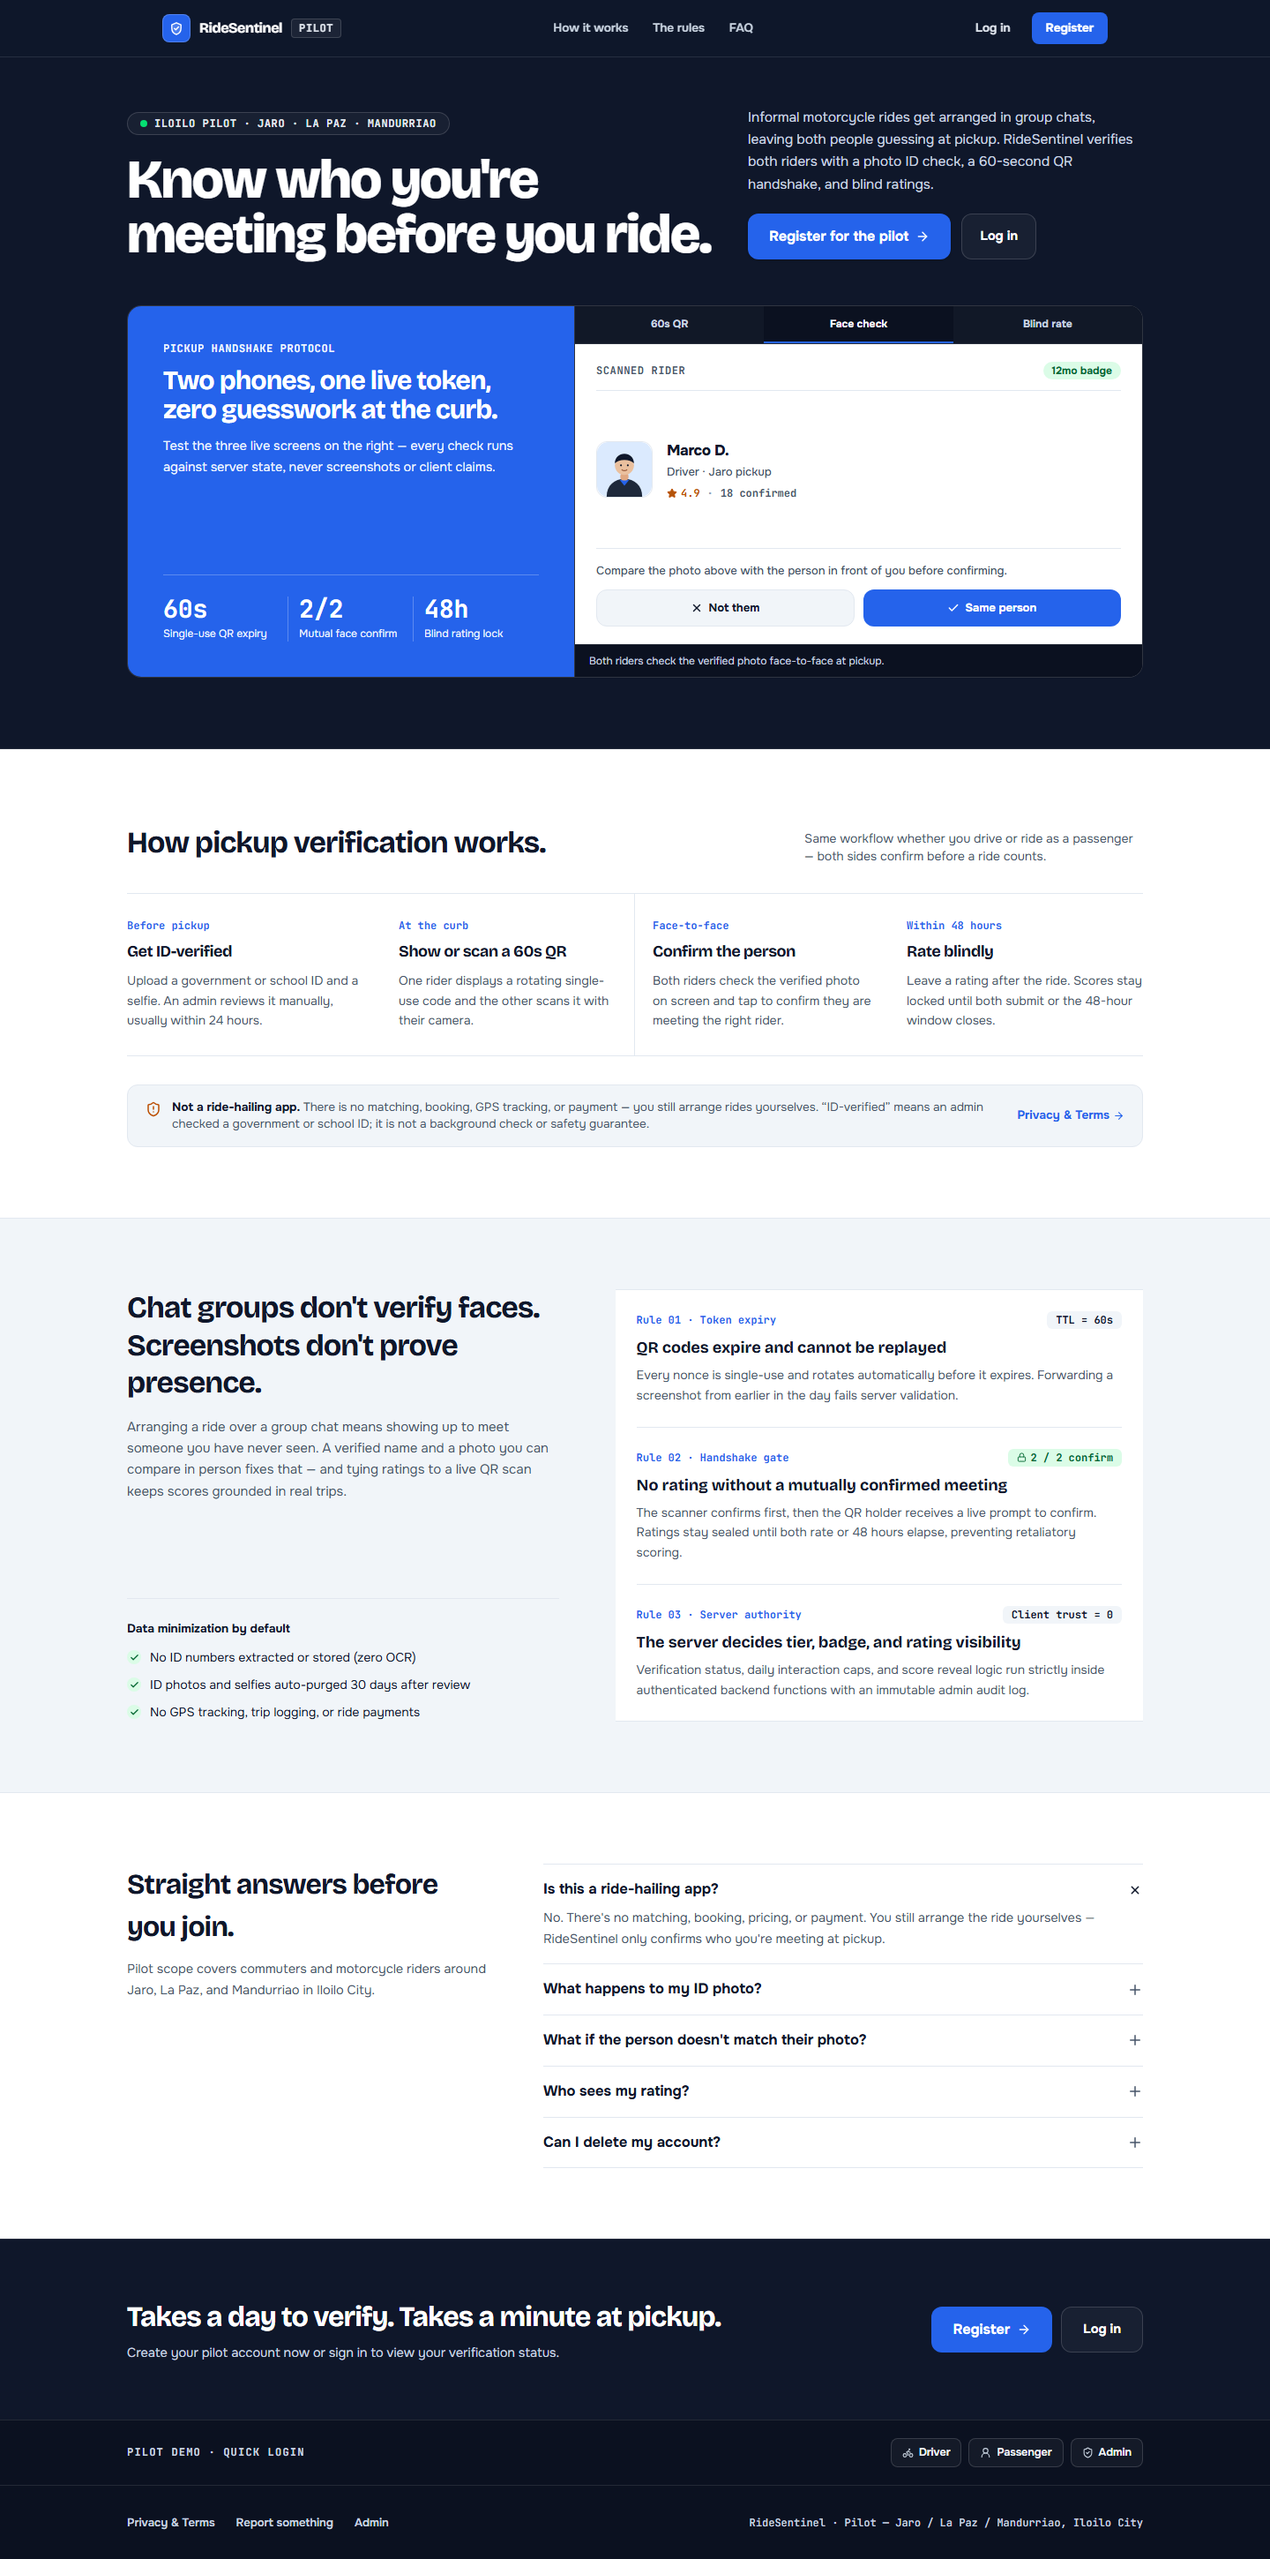
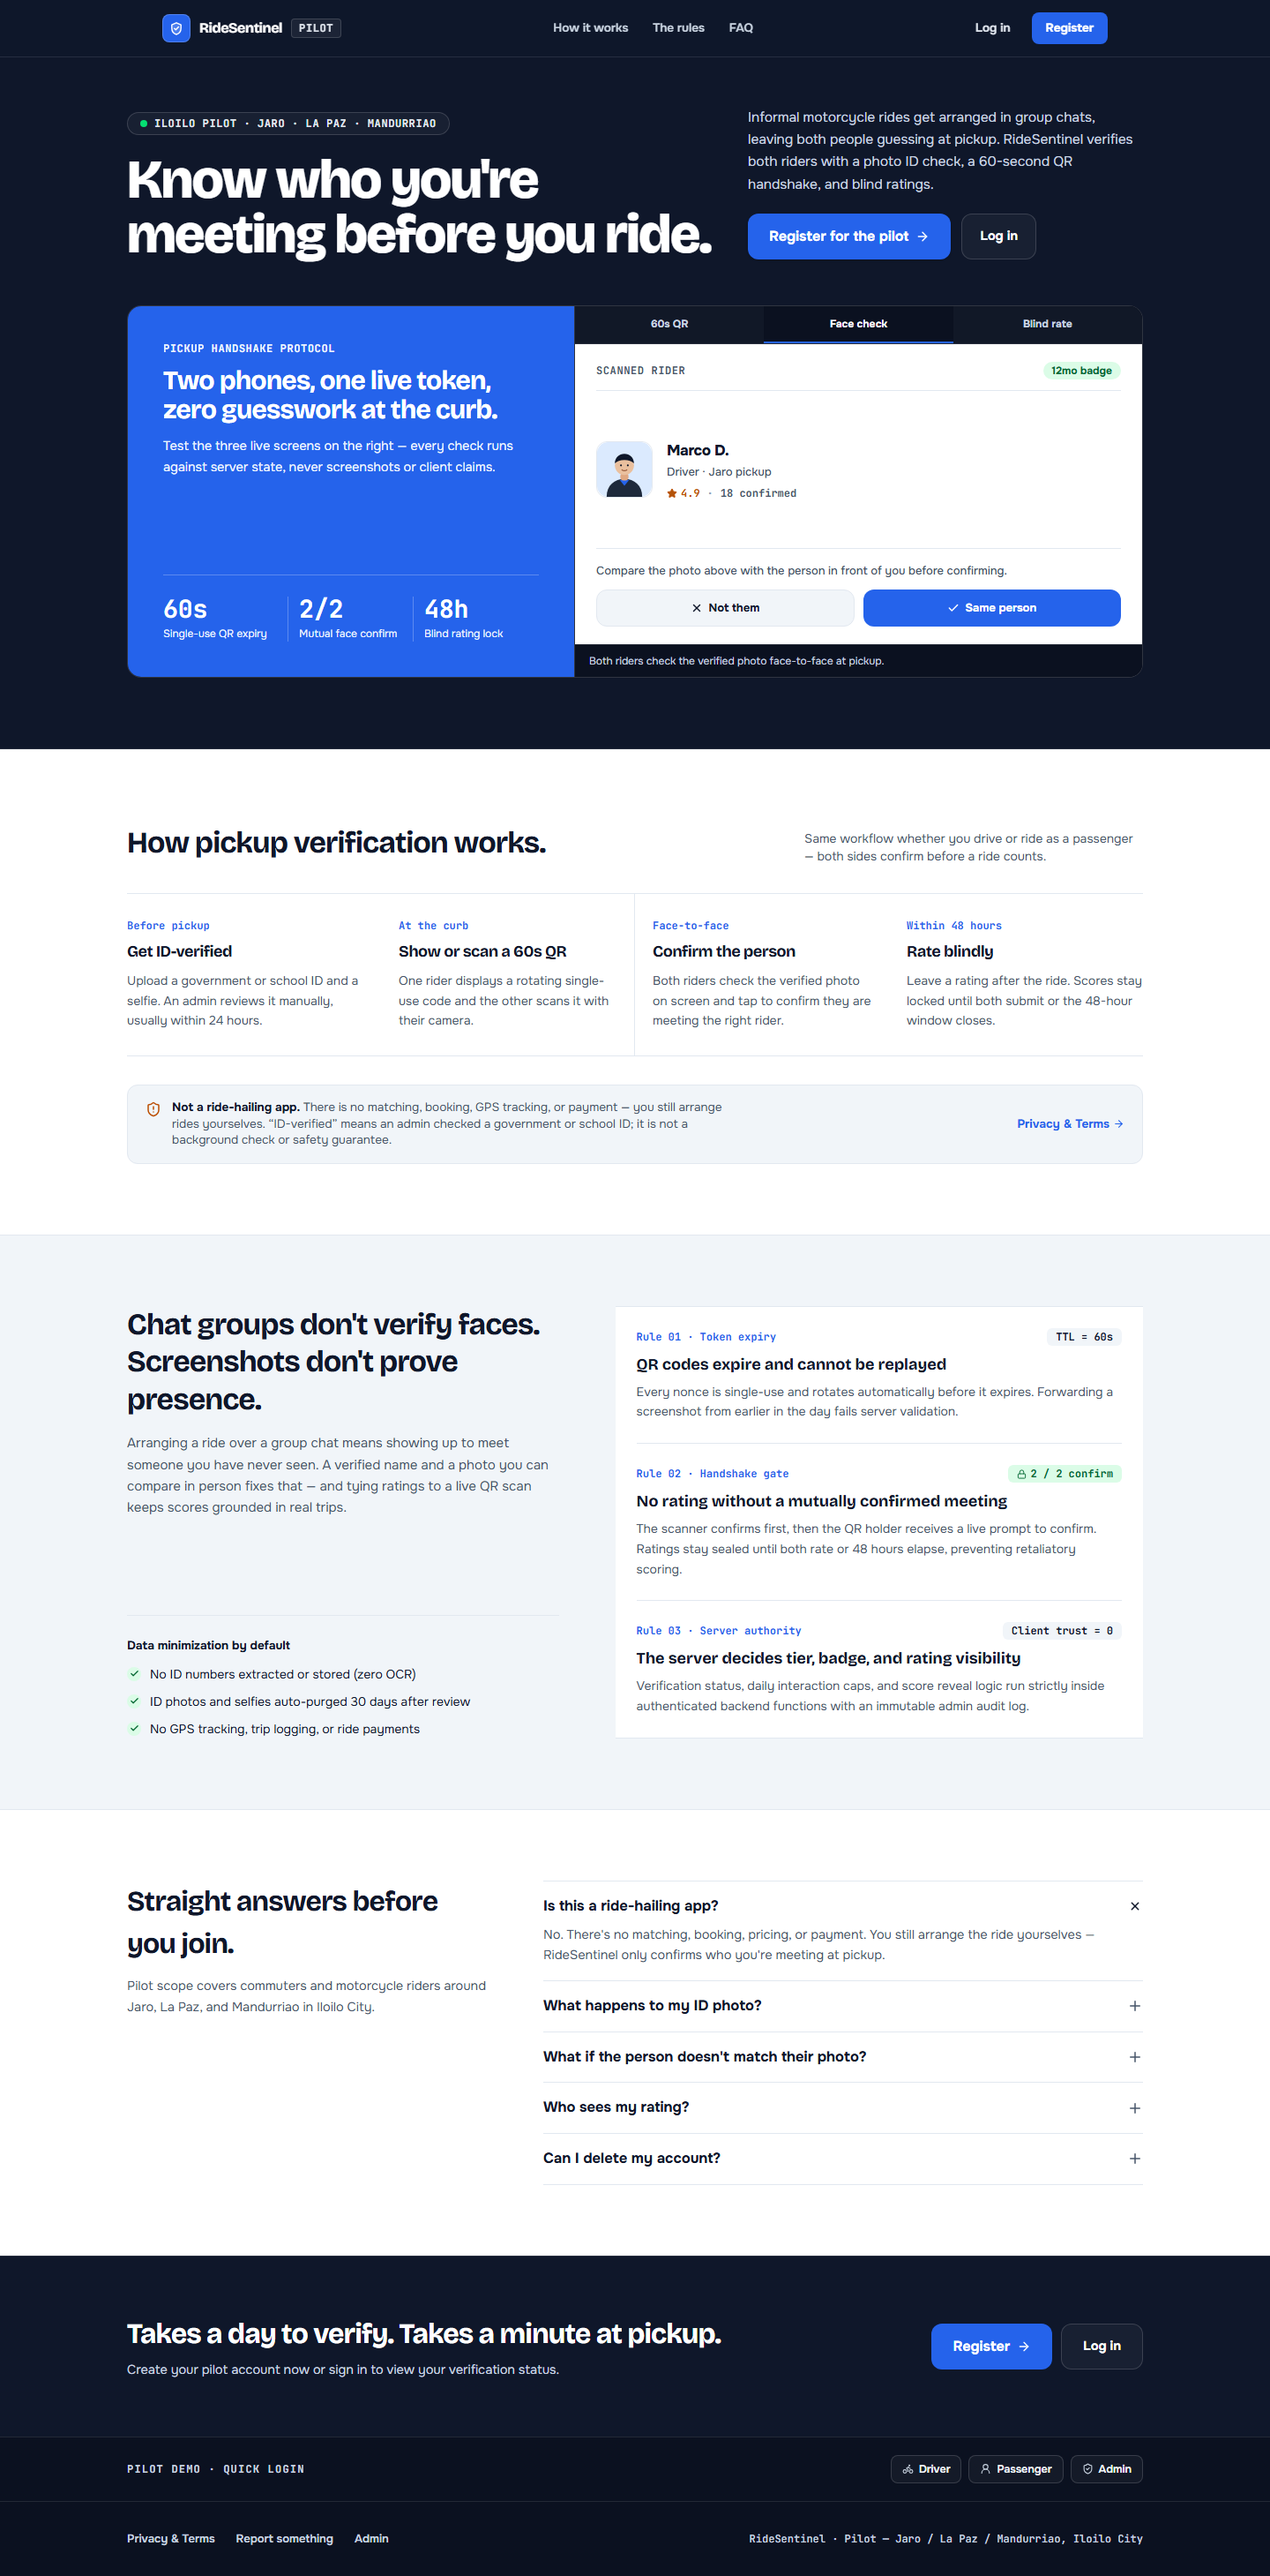
style(landing): cap boundary notice measure to 52ch and refresh review render

diff --git a/src/features/marketing/landing-page.tsx b/src/features/marketing/landing-page.tsx
@@ -232,7 +232,7 @@ export function LandingPage() {
           <div className="mt-8 flex flex-col gap-3 rounded-xl border border-mist bg-page px-5 py-4 md:flex-row md:items-center md:justify-between">
             <div className="flex items-start gap-3">
               <ShieldAlert size={18} className="mt-0.5 flex-shrink-0 text-amber-700" />
-              <p className="max-w-[70ch] text-[13.5px] leading-snug text-slate">
+              <p className="max-w-[52ch] text-[13.5px] leading-snug text-slate">
                 <strong className="font-bold text-ink">Not a ride-hailing app.</strong> There is no
                 matching, booking, GPS tracking, or payment — you still arrange rides yourselves.
                 &ldquo;ID-verified&rdquo; means an admin checked a government or school ID; it is not a

diff --git a/DESIGN.md b/DESIGN.md
@@ -93,3 +93,4 @@ RideSentinel splits its visual grammar intentionally by surface mode while shari
 
 - **Do:** Keep `≥12px` text floor, `≥4.5:1` contrast, `≤75ch` prose measure, and `tabular-nums` on countdowns and metrics.
 - **Don't:** Add uppercase kickers above headings, `01/02/03` chapter pills beside titles, CSS grid-line background gradients, fake user avatar stacks, or passwords in client bundles.
+
